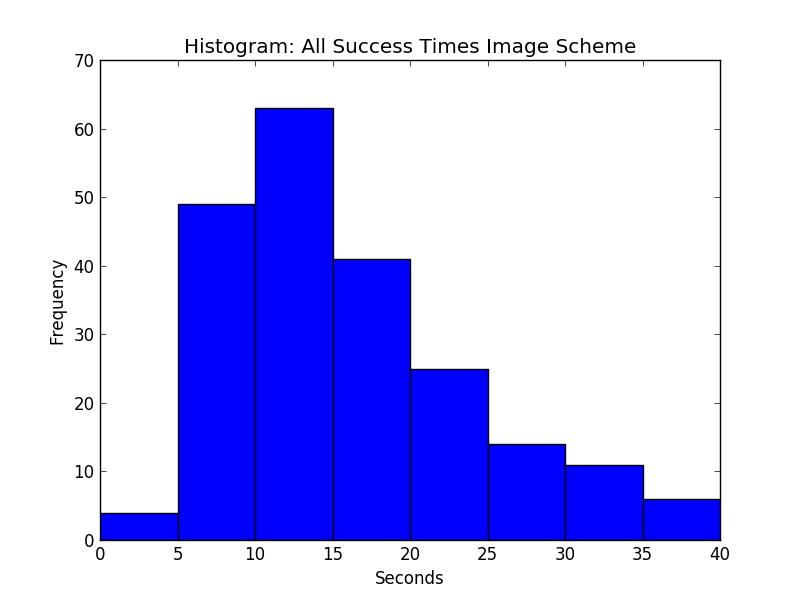
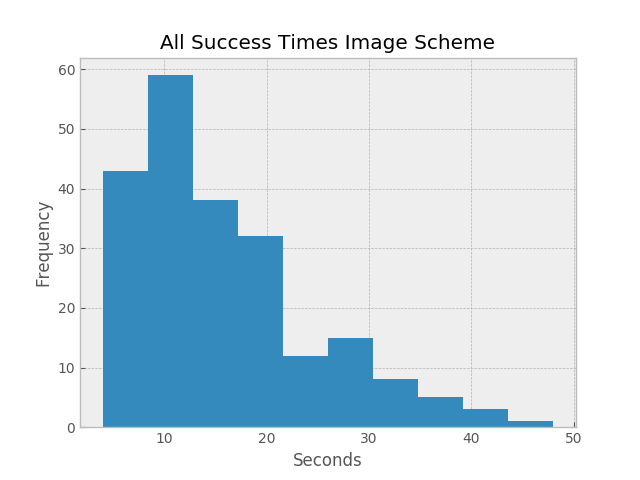
Changed graph styles.

diff --git a/csv_reader.py b/csv_reader.py
@@ -37,6 +37,17 @@ threshold = datetime.timedelta(
      weeks=0
  )
 
+def removeOutliers(list, value):
+	new = []
+	for x in list:
+		if(x <= value):
+			new.append(x)
+	return new
+
+
+
+
+
 
 
 def getAverageTimes(logins):
@@ -159,9 +170,10 @@ def algorithm(list, rows, allLogins, successes, failures, numberOfLoginsPerUser,
 
 
 
-def makeHistogram(logins, bins_array, alpha_val, title_str, y, x, name):
-	plt.style.use('_classic_test')
-	plt.hist(logins, bins=bins_array,alpha=alpha_val)
+def makeHistogram(logins, bins_array, alpha_val, title_str, y, x, name, style):
+
+	plt.style.use(style)
+	plt.hist(logins, bins=bins_array, alpha=alpha_val)
 	plt.gca().set(title=title_str, ylabel=y, xlabel=x)
 	plt.savefig(name)
 	plt.clf()
@@ -360,12 +372,19 @@ def doPartA():
 	print("")
 	print("Output_Part_A.csv file has been created in Project Directory!")
 	print("")
-	makeHistogram(allLoginsTextSeconds, [0, 5, 10, 15, 20, 25, 30], 0.5, 'Histogram: All Login Times Text Scheme', 'Frequency', 'Seconds', "Graphs/TextHistogramAllLogins.png")
-	makeHistogram(successesTextSeconds, [0, 5, 10, 15, 20, 25, 30], 0.5, 'Histogram: All Success Times Text Scheme', 'Frequency', 'Seconds', "Graphs/TextHistogramSuccesses.png")
-	makeHistogram(failuresTextSeconds, [0, 5, 10, 15, 20, 25, 30], 0.5, 'Histogram: All Failure Times Text Scheme', 'Frequency', 'Seconds', "Graphs/ImageHistogramAllLogins.png")
-	makeHistogram(allLoginsImageSeconds, [0, 5, 10, 15, 20, 25, 30, 35, 40], 1, 'Histogram: All Login Times Image Scheme', 'Frequency', 'Seconds', "Graphs/ImageHistogramAllLogins.png")
-	makeHistogram(successesImageSeconds, [0, 5, 10, 15, 20, 25, 30, 35, 40], 1, 'Histogram: All Success Times Image Scheme', 'Frequency', 'Seconds', "Graphs/ImageHistogramSuccesses.png")
-	makeHistogram(failuresImageSeconds, [0, 5, 10, 15, 20, 25, 30, 35], 1, 'Histogram: All Failure Times Image Scheme', 'Frequency', 'Seconds', "Graphs/ImageHistogramFailures.png")
+	t1 = removeOutliers(allLoginsTextSeconds, 25)
+	i1 = removeOutliers(allLoginsImageSeconds, 50)
+	t2 = removeOutliers(successesTextSeconds, 25)
+	i2 = removeOutliers(successesImageSeconds, 50)
+	t3 = removeOutliers(failuresTextSeconds, 15)
+	i3 = removeOutliers(failuresImageSeconds, 40)
+
+	makeHistogram(t1, 8, 1, 'All Login Times Text Scheme', 'Frequency', 'Seconds', "Graphs/TextHistogramAllLogins.png", 'ggplot')
+	makeHistogram(t2, 8, 1, 'All Success Times Text Scheme', 'Frequency', 'Seconds', "Graphs/TextHistogramSuccesses.png", 'ggplot')
+	makeHistogram(t3, 10, 1, 'All Failure Times Text Scheme', 'Frequency', 'Seconds', "Graphs/TextHistogramFailures.png", 'ggplot')
+	makeHistogram(i1, 10, 1, 'All Login Times Image Scheme', 'Frequency', 'Seconds', "Graphs/ImageHistogramAllLogins.png", 'bmh')
+	makeHistogram(i2, 10, 1, 'All Success Times Image Scheme', 'Frequency', 'Seconds', "Graphs/ImageHistogramSuccesses.png", 'bmh')
+	makeHistogram(i3, 10, 1, 'All Failure Times Image Scheme', 'Frequency', 'Seconds', "Graphs/ImageHistogramFailures.png", 'bmh')
 	print("")
 	print("Histograms have been created in /Graphs !")
 	print("")
@@ -445,14 +464,11 @@ def doPartB():
 	numberOfSuccessesDirect.sort()
 	numberOfFailuresDirect.sort()
 
-
-
 	countZeros = 0
 	for f in numberOfFailuresDirect:
 		if(f == 0):
 			countZeros = 1 + countZeros
 	del numberOfFailuresDirect[:countZeros]
-
 
 	# write 'average' row
 	outFile.writerow([" _ "," _ "," _ "," _ "," _ "," _ "," _ "," _ "])
@@ -510,15 +526,15 @@ def doPartB():
 	print("")
 	print("Output_Part_B.csv file has been created in Project Directory!")
 	print("")
-	#makeHistogram(allLoginsDirectSeconds, [0, 5, 10, 15, 20, 25, 30], 0.5, 'Histogram: All Login Times Direct Scheme', 'Frequency', 'Seconds', "Graphs/DirectHistogramAllLogins.png")
-	#makeHistogram(successesDirectSeconds, [0, 5, 10, 15, 20, 25, 30], 0.5, 'Histogram: All Success Times Direct Scheme', 'Frequency', 'Seconds', "Graphs/DirectHistogramSuccesses.png")
-	#makeHistogram(failuresDirectSeconds, [0, 5, 10, 15, 20, 25, 30], 0.5, 'Histogram: All Failure Times Direct Scheme', 'Frequency', 'Seconds', "Graphs/ImageHistogramAllLogins.png")
-	#print("")
-	#print("Histograms have been created in /Graphs !")
-	#print("")
-	#print("")
-	#print("Boxplots have been created in /Graphs !")
-	#print("")
+	makeHistogram(allLoginsDirectSeconds, [0, 5, 10, 15, 20, 25, 30], 0.5, 'Histogram: All Login Times Direct Scheme', 'Frequency', 'Seconds', "Graphs/DirectHistogramAllLogins.png")
+	makeHistogram(successesDirectSeconds, [0, 5, 10, 15, 20, 25, 30], 0.5, 'Histogram: All Success Times Direct Scheme', 'Frequency', 'Seconds', "Graphs/DirectHistogramSuccesses.png")
+	makeHistogram(failuresDirectSeconds, [0, 5, 10, 15, 20, 25, 30], 0.5, 'Histogram: All Failure Times Direct Scheme', 'Frequency', 'Seconds', "Graphs/ImageHistogramAllLogins.png")
+	print("")
+	print("Histograms have been created in /Graphs !")
+	print("")
+	print("")
+	print("Boxplots have been created in /Graphs !")
+	print("")
 
 
 
